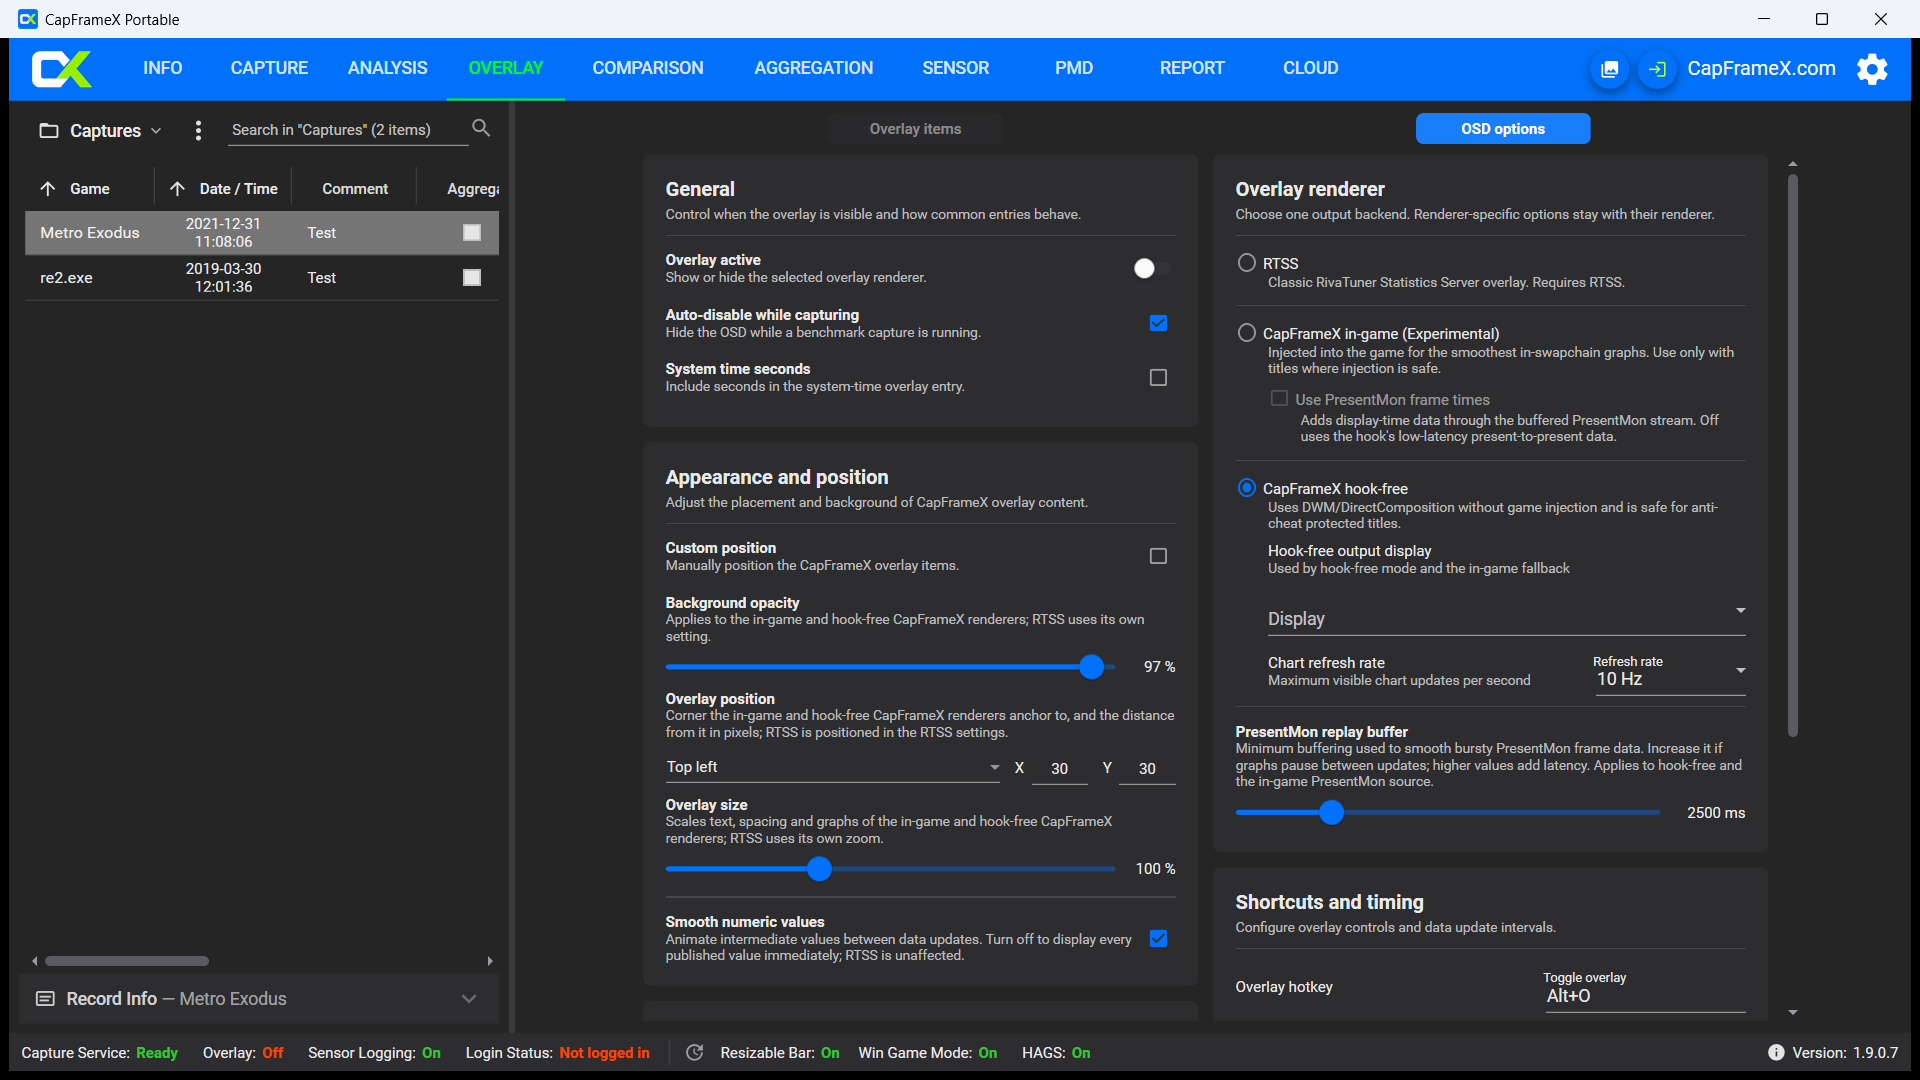
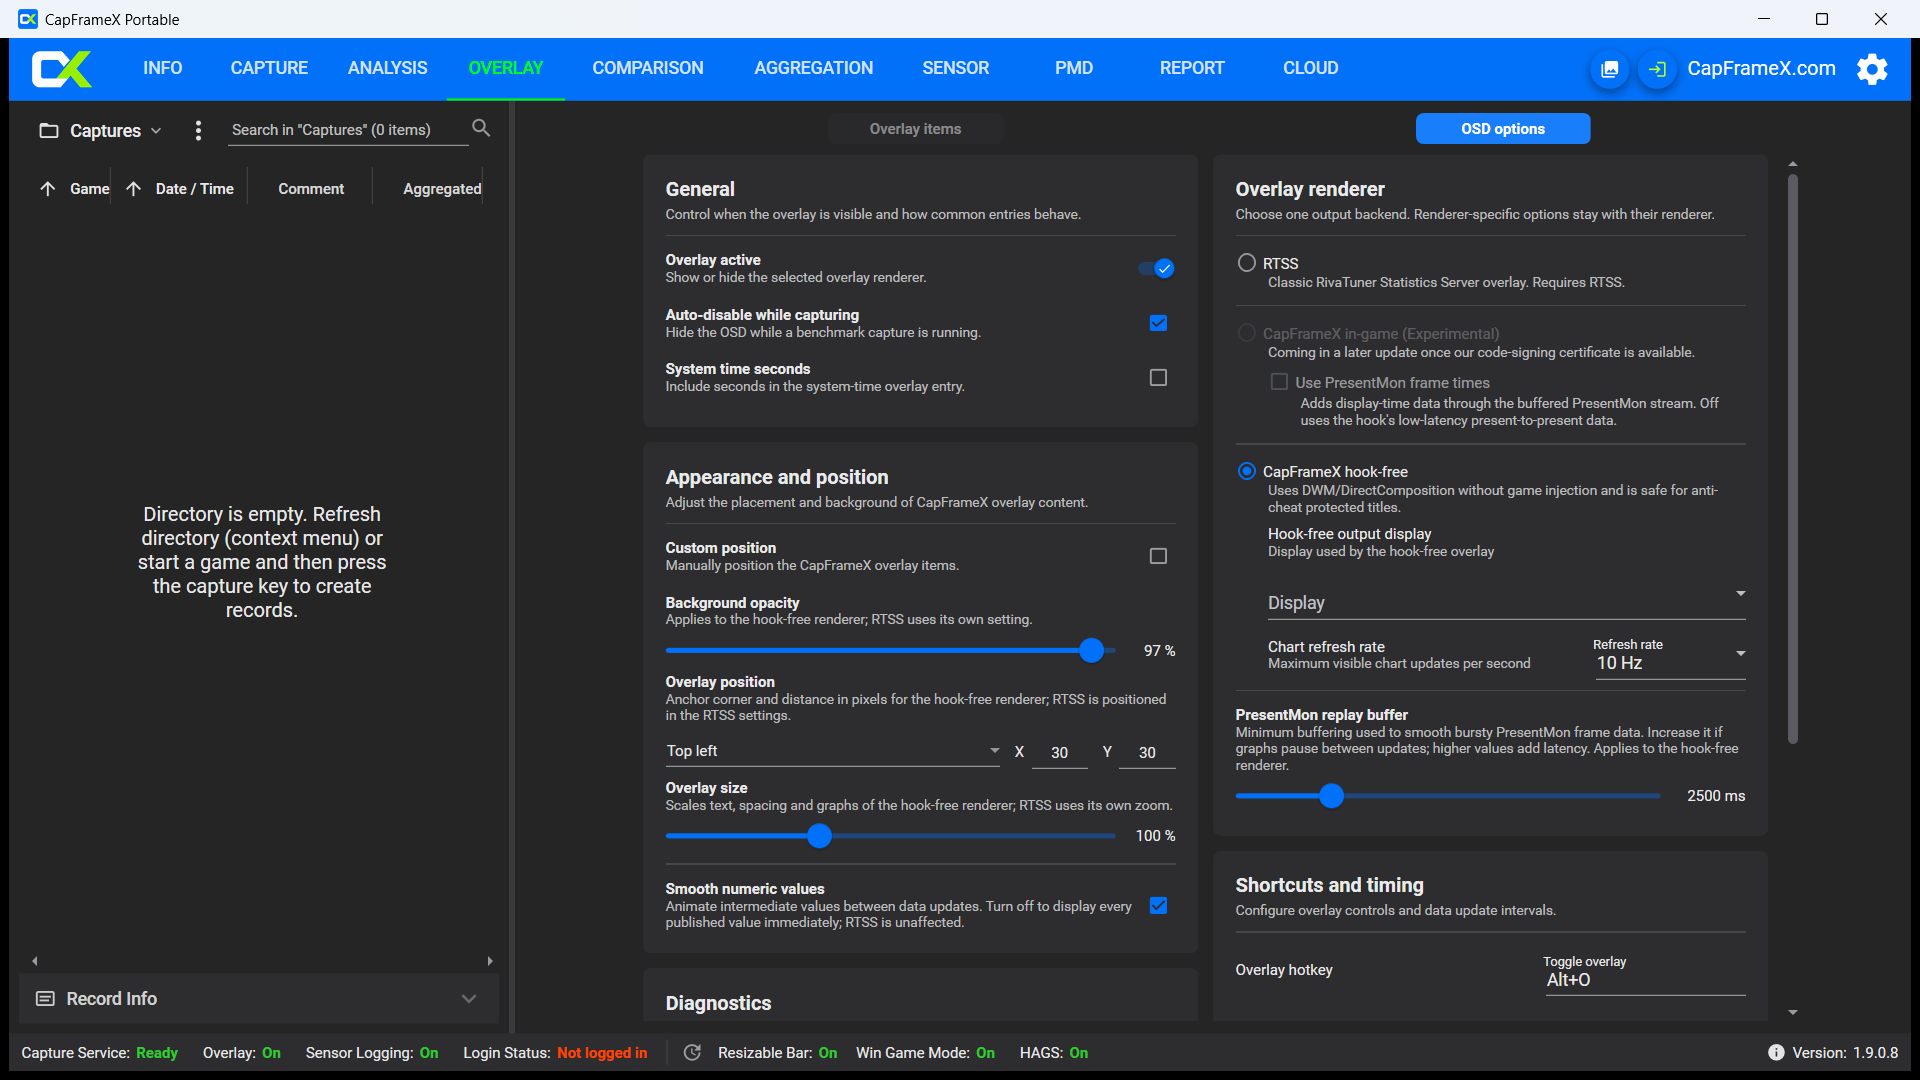
Document deferred in-game overlay in the release UI

diff --git a/source/CapFrameX.View/OverlayView.xaml b/source/CapFrameX.View/OverlayView.xaml
@@ -1070,7 +1070,7 @@
 
 									<TextBlock Margin="0 8 0 0" FontWeight="SemiBold" Text="Background opacity"/>
 									<TextBlock Style="{StaticResource OsdOptionsDescription}"
-											   Text="Applies to the in-game and hook-free CapFrameX renderers; RTSS uses its own setting."/>
+											   Text="Applies to the hook-free renderer; RTSS uses its own setting."/>
 									<Grid Margin="0 8 0 0">
 										<Grid.ColumnDefinitions>
 											<ColumnDefinition Width="*"/>
@@ -1084,7 +1084,7 @@
 
 									<TextBlock Margin="0 8 0 0" FontWeight="SemiBold" Text="Overlay position"/>
 									<TextBlock Style="{StaticResource OsdOptionsDescription}"
-											   Text="Corner the in-game and hook-free CapFrameX renderers anchor to, and the distance from it in pixels; RTSS is positioned in the RTSS settings."/>
+											   Text="Anchor corner and distance in pixels for the hook-free renderer; RTSS is positioned in the RTSS settings."/>
 									<Grid Margin="0 8 0 0">
 										<Grid.ColumnDefinitions>
 											<ColumnDefinition Width="*"/>
@@ -1111,7 +1111,7 @@
 
 									<TextBlock Margin="0 8 0 0" FontWeight="SemiBold" Text="Overlay size"/>
 									<TextBlock Style="{StaticResource OsdOptionsDescription}"
-											   Text="Scales text, spacing and graphs of the in-game and hook-free CapFrameX renderers; RTSS uses its own zoom."/>
+											   Text="Scales text, spacing and graphs of the hook-free renderer; RTSS uses its own zoom."/>
 									<Grid Margin="0 8 0 0">
 										<Grid.ColumnDefinitions>
 											<ColumnDefinition Width="*"/>

diff --git a/images/1.9.0/README.md b/images/1.9.0/README.md
@@ -3,7 +3,8 @@
 Captured from the application at version 1.9.0.7 with the release channel. The initial portable screenshot build was produced from commit `4456e732130479b9fc874c578e6a752149e7dd70`.
 
 - `comparison.png` and `report.png` show the Cyberpunk 2077 comparison and report prepared by the maintainer for this release.
-- The other screenshots use a separate portable configuration and the public capture fixtures in `source/CapFrameX.Test/TestRecordFiles`.
+- `overlay-options.png` was refreshed from the revised 1.9.0.8 build. It shows the disabled in-game option, its certificate notice, and the hook-free selection after migration.
+- The remaining screenshots use a separate portable configuration and the public capture fixtures in `source/CapFrameX.Test/TestRecordFiles`.
 - `info.png` shows the live hardware dashboard of the screenshot system.
 
 These are direct window captures of the application. The header banner in `images/CX_Header_Logo_Wide.jpg` uses the current branding from `source/CapFrameX/Icons/X_Banner.jpg`.
